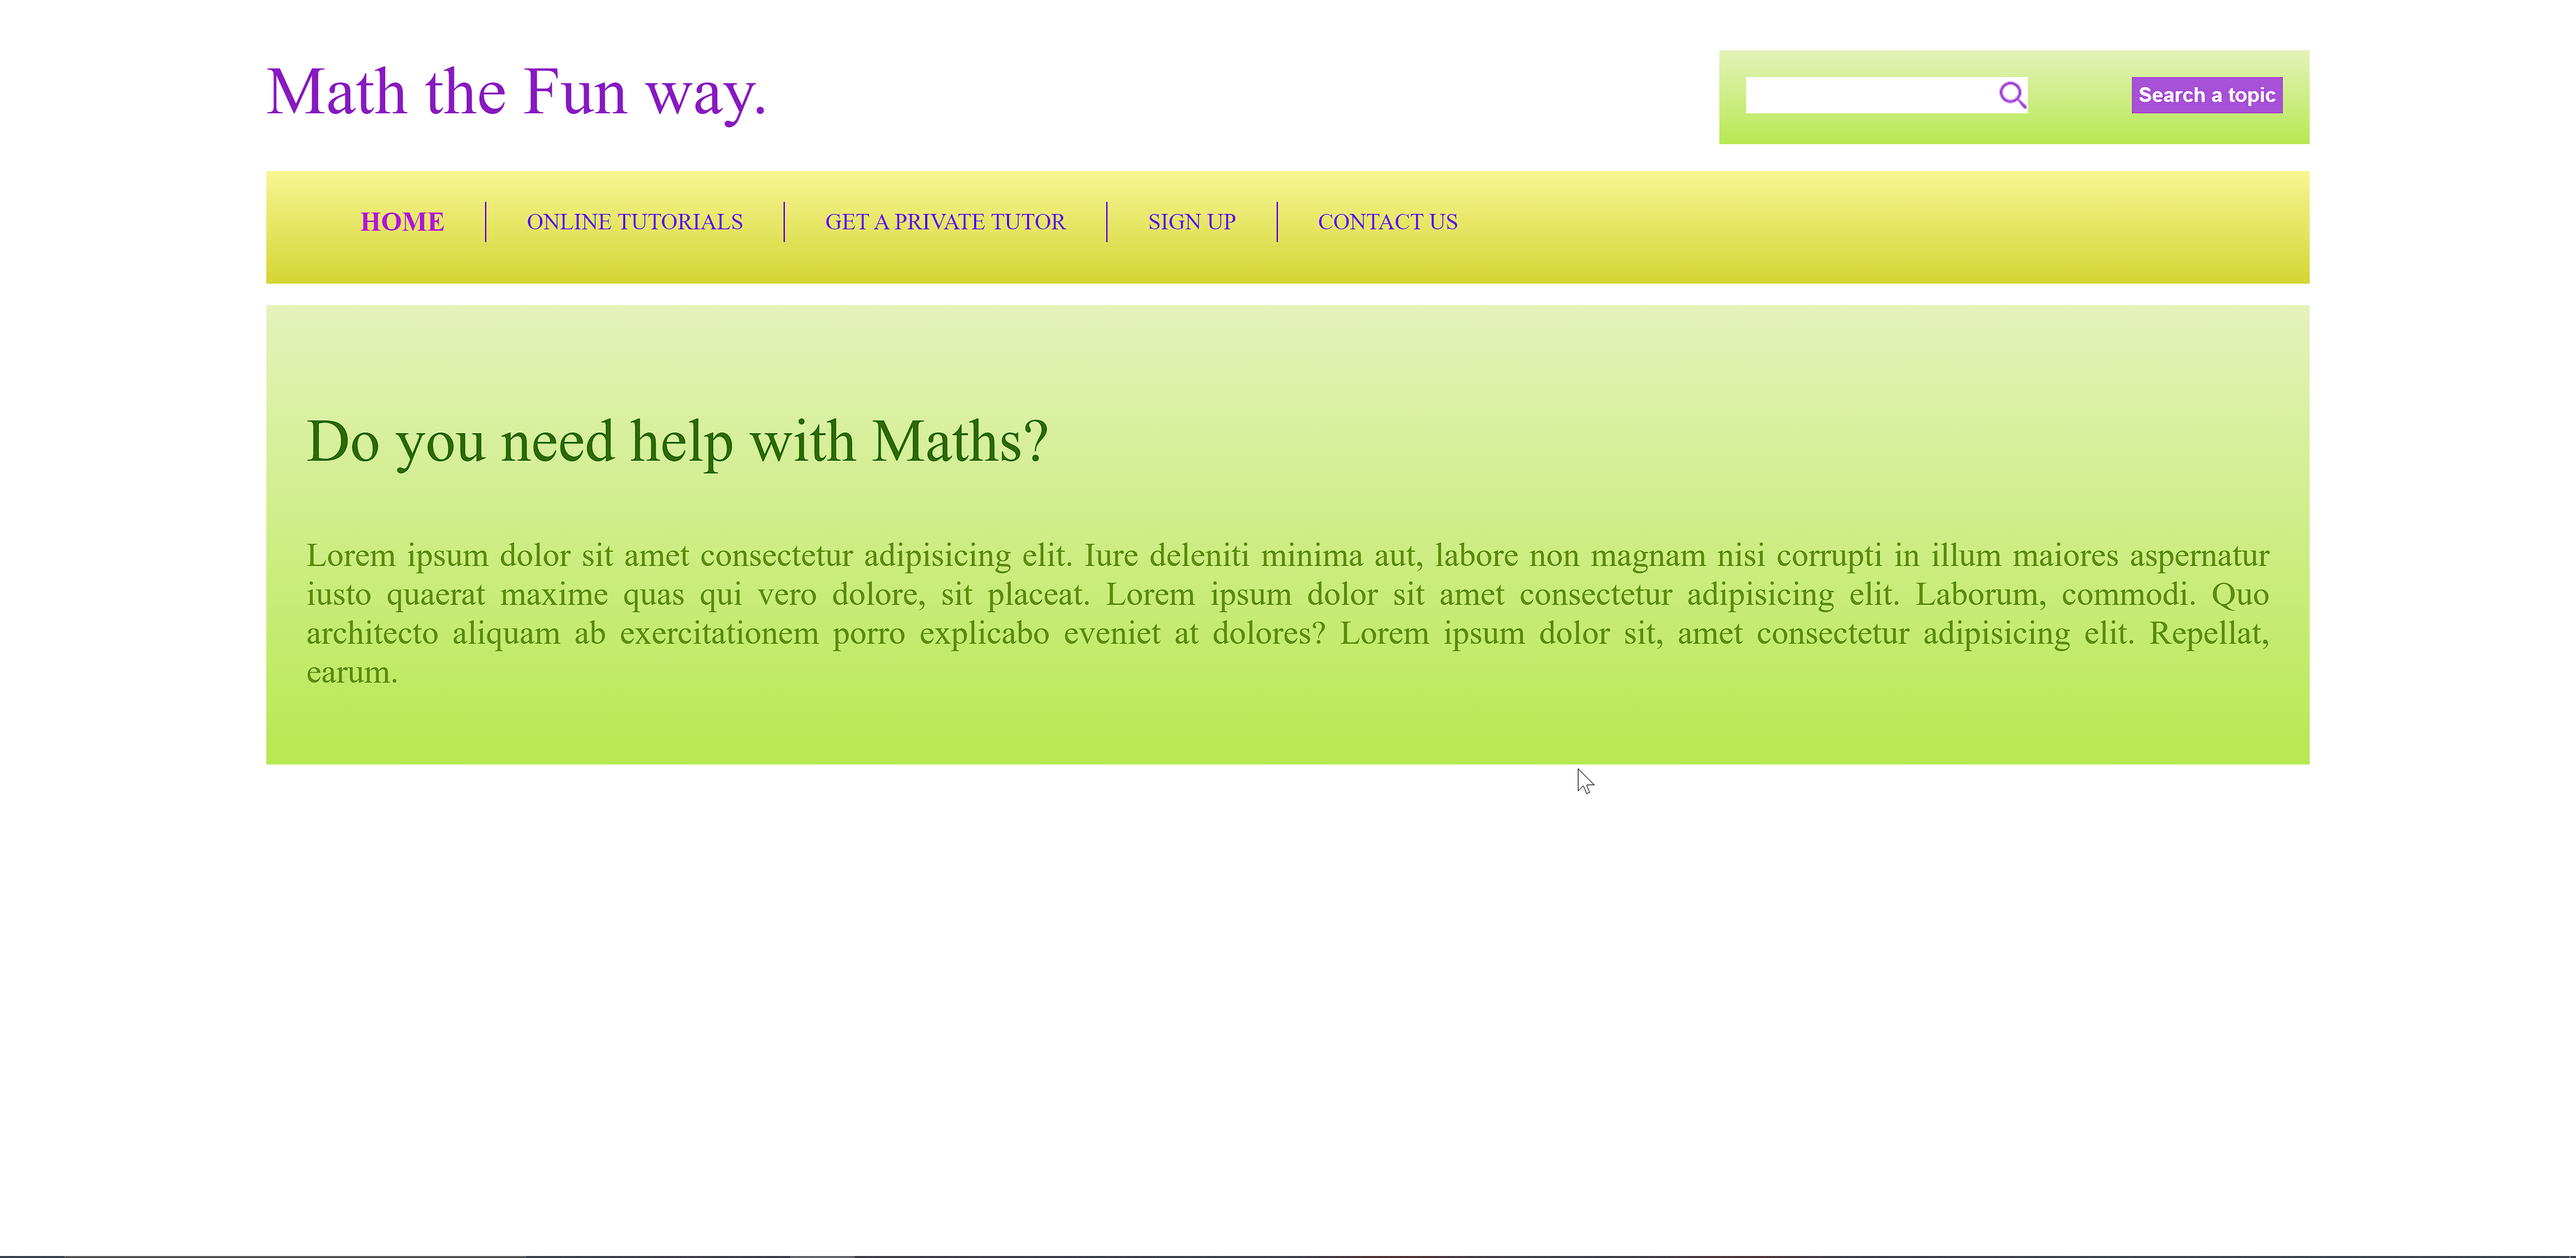
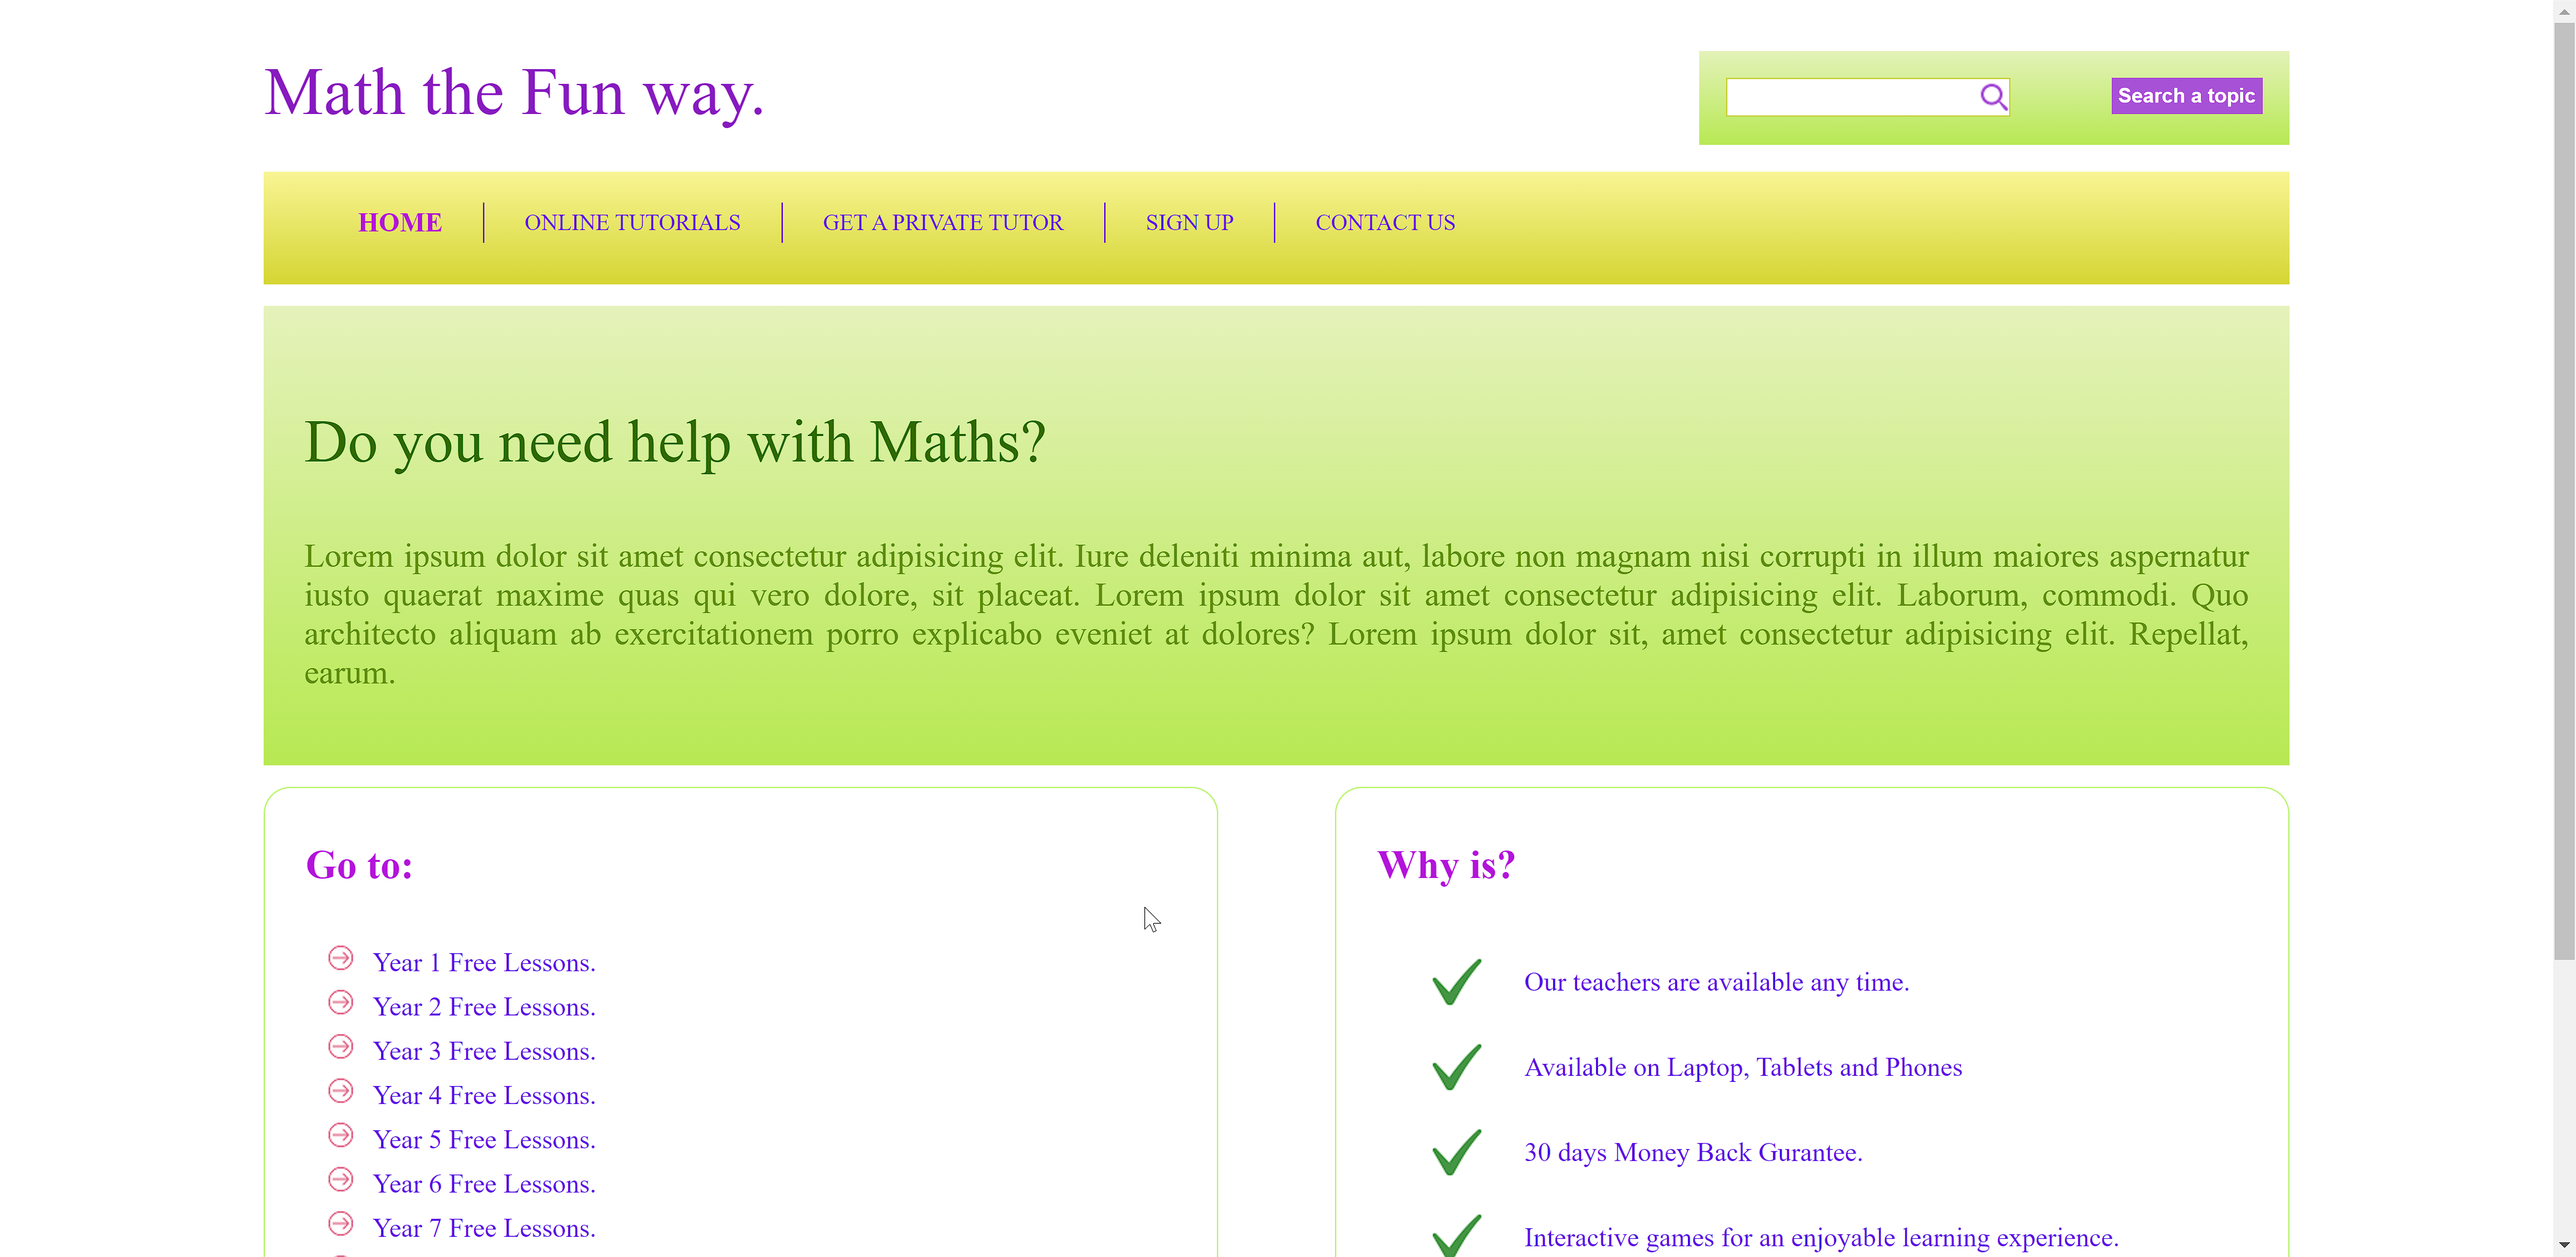
completed

diff --git a/Math Website/index.html b/Math Website/index.html
@@ -45,6 +45,44 @@
                 dolor sit, amet consectetur adipisicing elit. Repellat, earum.
             </p>
        </div>
+       <div>
+            <div id="leftsidebar" class="sidebar">
+                <h3>Go to:</h3>
+                <ul>
+                    <li><a href="#">Year 1 Free Lessons.</a></li>
+                    <li><a href="#">Year 2 Free Lessons.</a></li>
+                    <li><a href="#">Year 3 Free Lessons.</a></li>
+                    <li><a href="#">Year 4 Free Lessons.</a></li>
+                    <li><a href="#">Year 5 Free Lessons.</a></li>
+                    <li><a href="#">Year 6 Free Lessons.</a></li>
+                    <li><a href="#">Year 7 Free Lessons.</a></li>
+                    <li><a href="#">Year 8 Free Lessons.</a></li>
+                    <li><a href="#">Year 9 Free Lessons.</a></li>
+                    <li><a href="#">Year 10 Free Lessons.</a></li>
+                    <li><a href="#">Year 11 Free Lessons.</a></li>
+                    <li><a href="#">Year 12 Free Lessons.</a></li>
+                </ul>
+            </div>
+            <div id="rightsidebar" class="sidebar">
+                <h3>Why is?</h3>
+                <ul>
+                    <li><a href="#">Our teachers are available any time.</a></li>
+                    <li><a href="#">Available on Laptop, Tablets and Phones</a></li>
+                    <li><a href="#">30 days Money Back Gurantee.</a></li>
+                    <li><a href="#">Interactive games for an enjoyable learning experience.</a></li>
+                    <li><a href="#">Learn at your own pace.</a></li>
+                    <li><a href="#">Complete curriculum</a></li>
+                </ul>
+            </div>
+            <div class="clear"></div>
+            <footer class="footer">
+                <div>
+                    <p>
+                       ABC.Inc All Rights Reserved &copy; 2022-2030
+                    </p>
+                </div>
+            </footer>
+       </div>
     </div>
                 
     <script src="script.js"></script>

diff --git a/Math Website/style.css b/Math Website/style.css
@@ -1,3 +1,7 @@
+body {
+    font: Arial, Helvetica, sans-serif;
+}
+
 #container {
     width: 80%;
     /* border: 1px solid grey; */
@@ -37,7 +41,7 @@ h1 a {
     font-size: 15px;
     color: #E36A0C;
     background: white url('search.png') no-repeat right center;
-    border-style: none;
+    border: 1px solid #c8d03e;
 }
 
 .submit {
@@ -111,4 +115,67 @@ ul {
     font-size: 25px;
     color: #628F19;
     text-align: justify;
+}
+
+.sidebar {
+    height: 500px;
+    width: 43%;
+    border: 1px solid #BAF46F;
+    border-radius: 20px;
+    padding: 10px 30px;
+}
+
+.sidebar h3 {
+    color: #B314DB;
+    font-size: 30px;
+}
+.sidebar ul {
+    padding-top: 8px;
+}
+
+#leftsidebar ul li {
+    list-style-image: url('arrow.png');
+    padding: 4px 0px 4px 10px;
+}
+
+#rightsidebar ul li {
+    /* left right top bottom */
+    /* left-right top-bottom */
+    padding: 20px 0px 20px 70px;
+    background: url('tick.png') no-repeat left center;
+}
+
+.sidebar ul li a {
+    text-decoration: none;
+    font-size: 20px;
+    color: #5d12e7;
+    -webkit-transition: font-size .3s ease;
+    -moz-transition: font-size .3s ease;
+    -o-transition: font-size .3s ease;
+    -ms-transition: font-size .3s ease;
+    transition: font-size .3s ease;
+}
+
+.sidebar ul li a:hover, .sidebar ul li a.active {
+    text-decoration: none;
+    color: #B314DB;
+    font-size: 23px;
+    font-weight: bold;
+
+}
+
+#leftsidebar {
+    float: left;
+    
+}
+
+#rightsidebar {
+    float: right;
+}
+
+.footer {
+    height: 60px;
+    background: linear-gradient(#f6f390, #d5d533);
+    padding: 10px 30px;
+    margin-top: 15px;
 }
